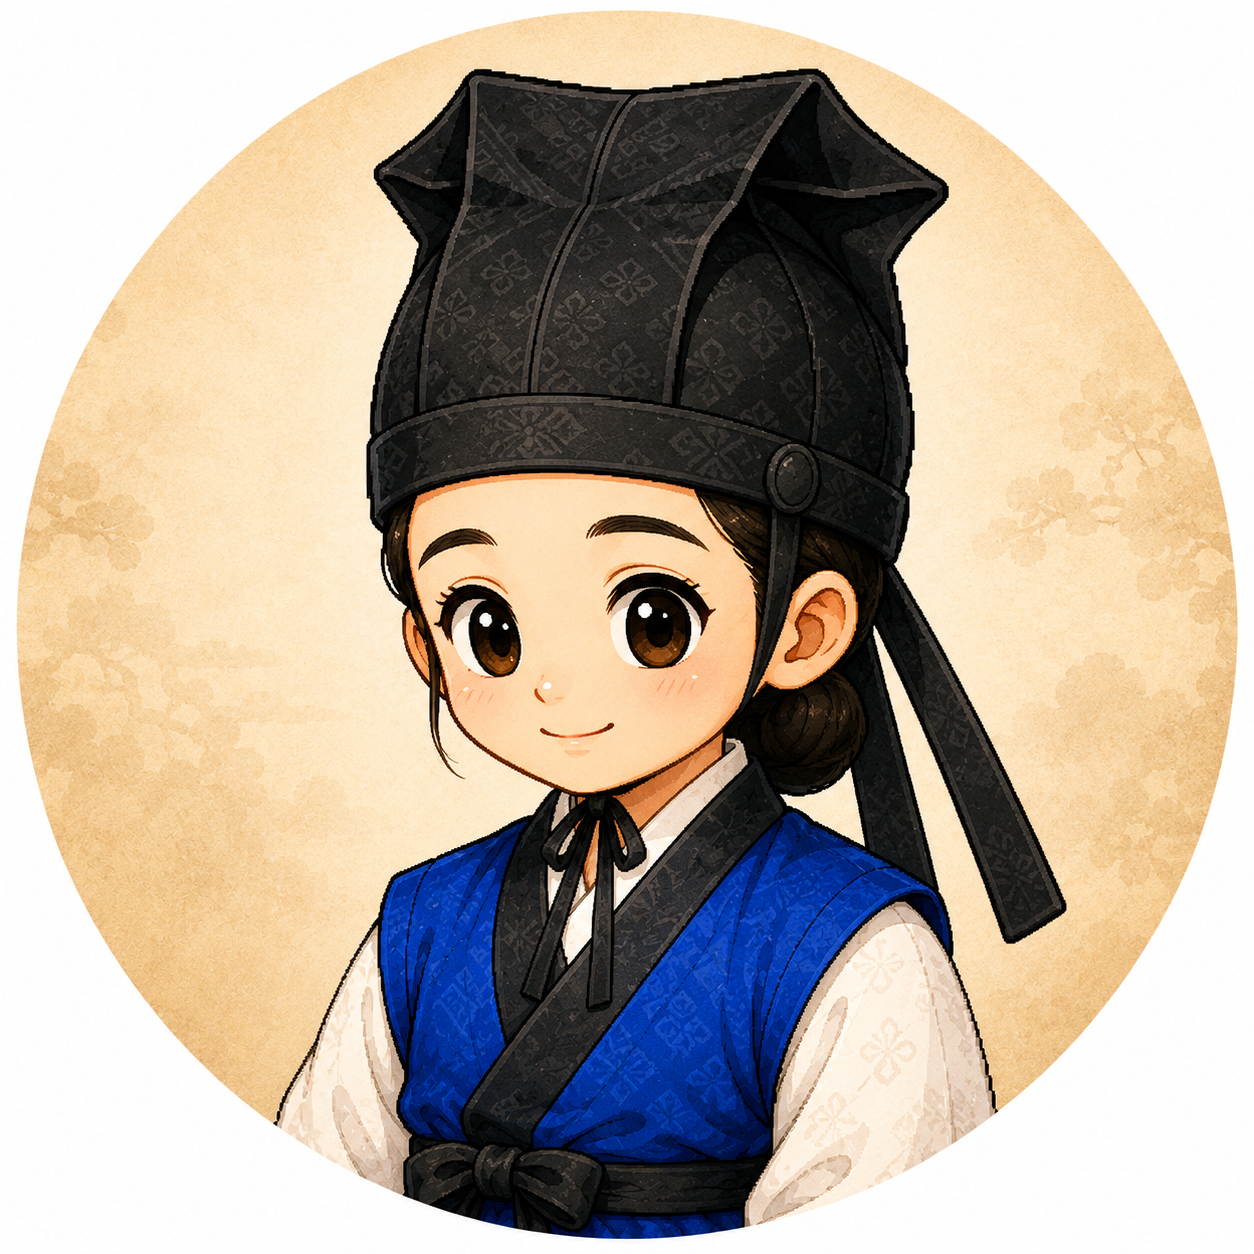
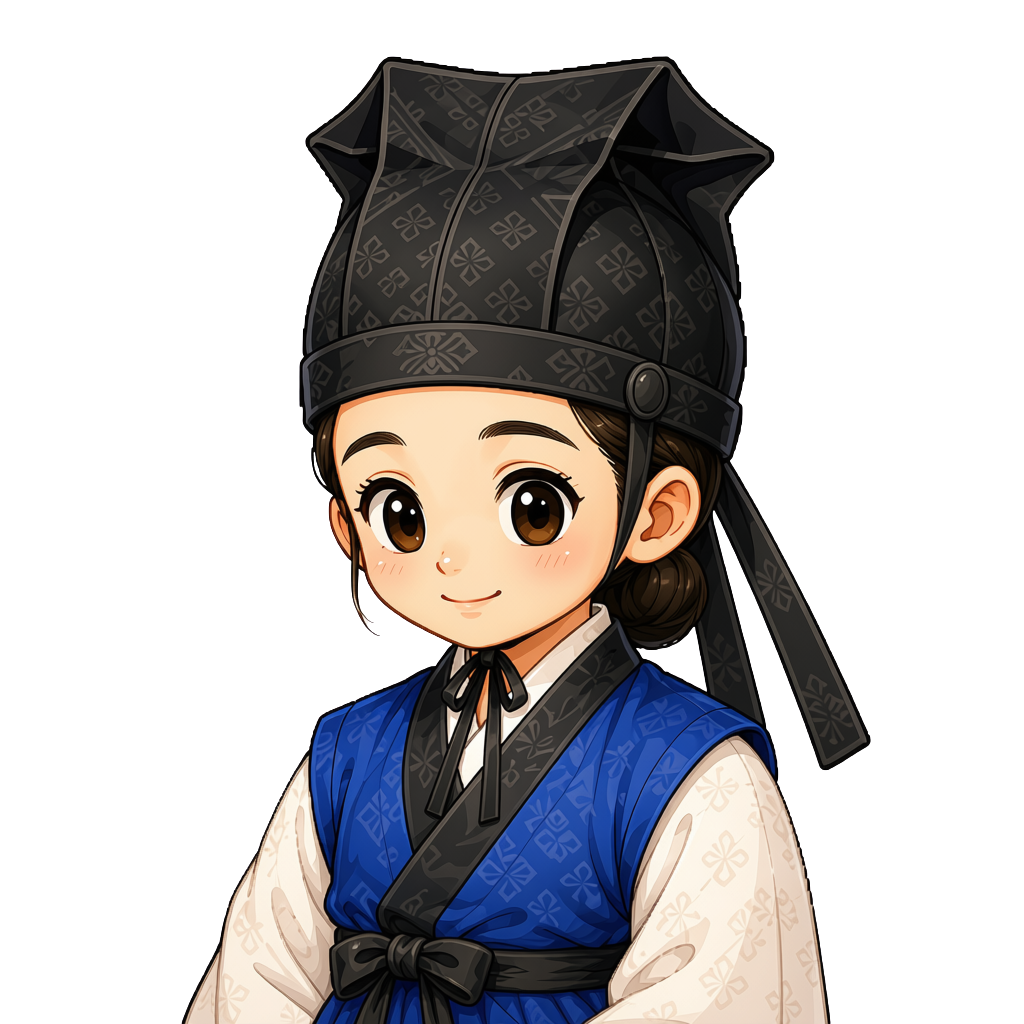
관리자 접근 제한, 게시판 공지사항, 캐릭터 변경창 확대, 프로필 이미지 갱신
- /admin은 isAdmin 계정만 접근 가능하도록 제한, admin 계정 자동 복구 로직 추가
- 상단 네비바에 세줄 메뉴(배경음 조절/로그아웃/회원탈퇴) 추가
- 스터디룸 12번 좌석 위 게시판 클릭 시 공지사항 모달 표시
- 캐릭터 변경창 크기 및 아바타 확대
- 프로필 이미지 8장 최신 원본으로 썸네일 재생성

diff --git a/src/legacy/GongsupScreens.tsx b/src/legacy/GongsupScreens.tsx
@@ -586,25 +586,25 @@ export const RAW_SEATS: Omit<Seat, "status">[] = [
 // 서당 맵 좌석 (2줄 × 10칸, id 101~120 — 공숲 좌석 id와 겹치지 않게 구분)
 export const SEODANG_SEATS: Omit<Seat, "status">[] = [
   { id: 101, x: 88,  y: 327, zone: "서당 앞줄" },
-  { id: 102, x: 181, y: 327, zone: "서당 앞줄" },
-  { id: 103, x: 275, y: 327, zone: "서당 앞줄" },
-  { id: 104, x: 368, y: 327, zone: "서당 앞줄" },
-  { id: 105, x: 461, y: 327, zone: "서당 앞줄" },
-  { id: 106, x: 564, y: 327, zone: "서당 앞줄" },
-  { id: 107, x: 658, y: 327, zone: "서당 앞줄" },
-  { id: 108, x: 751, y: 327, zone: "서당 앞줄" },
-  { id: 109, x: 844, y: 327, zone: "서당 앞줄" },
-  { id: 110, x: 937, y: 327, zone: "서당 앞줄" },
+  { id: 102, x: 179, y: 327, zone: "서당 앞줄" },
+  { id: 103, x: 265, y: 327, zone: "서당 앞줄" },
+  { id: 104, x: 353, y: 327, zone: "서당 앞줄" },
+  { id: 105, x: 451, y: 327, zone: "서당 앞줄" },
+  { id: 106, x: 579, y: 327, zone: "서당 앞줄" },
+  { id: 107, x: 673, y: 327, zone: "서당 앞줄" },
+  { id: 108, x: 766, y: 327, zone: "서당 앞줄" },
+  { id: 109, x: 859, y: 327, zone: "서당 앞줄" },
+  { id: 110, x: 947, y: 327, zone: "서당 앞줄" },
   { id: 111, x: 88,  y: 410, zone: "서당 뒷줄" },
   { id: 112, x: 181, y: 410, zone: "서당 뒷줄" },
-  { id: 113, x: 275, y: 410, zone: "서당 뒷줄" },
-  { id: 114, x: 368, y: 410, zone: "서당 뒷줄" },
-  { id: 115, x: 461, y: 410, zone: "서당 뒷줄" },
-  { id: 116, x: 564, y: 410, zone: "서당 뒷줄" },
-  { id: 117, x: 658, y: 410, zone: "서당 뒷줄" },
-  { id: 118, x: 751, y: 410, zone: "서당 뒷줄" },
-  { id: 119, x: 844, y: 410, zone: "서당 뒷줄" },
-  { id: 120, x: 937, y: 410, zone: "서당 뒷줄" },
+  { id: 113, x: 265, y: 410, zone: "서당 뒷줄" },
+  { id: 114, x: 353, y: 410, zone: "서당 뒷줄" },
+  { id: 115, x: 448, y: 410, zone: "서당 뒷줄" },
+  { id: 116, x: 579, y: 410, zone: "서당 뒷줄" },
+  { id: 117, x: 673, y: 410, zone: "서당 뒷줄" },
+  { id: 118, x: 763, y: 410, zone: "서당 뒷줄" },
+  { id: 119, x: 854, y: 410, zone: "서당 뒷줄" },
+  { id: 120, x: 942, y: 410, zone: "서당 뒷줄" },
 ];
 
 // pre-occupied seats for visual context
@@ -689,6 +689,7 @@ export function StudyRoomPage({ todos, remove, add, char, setChar }: {
   const [seatedAt, setSeatedAt] = useState<number | null>(null);
   const [timeOfDay, setTimeOfDay] = useState<TimeOfDay>(getTimeOfDay);
   const [showCharSelect, setShowCharSelect] = useState(false);
+  const [showNotice, setShowNotice] = useState(false);
   const [todoOpen, setTodoOpen] = useState(true);
 
   const currentMap = MAPS[mapId];
@@ -1041,6 +1042,22 @@ export function StudyRoomPage({ todos, remove, add, char, setChar }: {
             <SeatMarker key={seat.id} seat={seat} isSelected={selectedId === seat.id} onClick={handleSeatClick} />
           ))}
 
+          {/* 게시판 — 12번 좌석 위 안내판, 클릭하면 공지사항 표시 (공숲 맵에만 존재) */}
+          {mapId === "forest" && (
+            <div
+              onClick={() => setShowNotice(true)}
+              title="클릭하여 공지사항 보기"
+              style={{ position: "absolute", left: `${(680 / MAP_W) * 100}%`, top: `${(388 / MAP_H) * 100}%`, transform: "translate(-50%, -50%)", zIndex: 22, width: 46, height: 34, cursor: "pointer" }}
+            >
+              <div style={{ position: "absolute", top: -22, left: "50%", transform: "translateX(-50%)", background: "#c04040", color: "#fff", fontSize: 9, fontWeight: 700, padding: "2px 7px", whiteSpace: "nowrap", border: "1px solid #7a1010", boxShadow: "1px 1px 0 #4a0808", animation: "noticeBlink 1.4s ease-in-out infinite" }}>
+                👆 클릭
+              </div>
+            </div>
+          )}
+
+          {/* 공지사항 모달 */}
+          {showNotice && <NoticeBoardModal onClose={() => setShowNotice(false)} />}
+
           {/* Seated character */}
           {seatedSeat && (
             <>
@@ -1256,7 +1273,7 @@ function CharSelectModal({ current, onSelect, onClose }: {
       <div onClick={onClose} style={{ position: "absolute", inset: 0, zIndex: 40, background: "rgba(0,0,0,0.62)" }} />
       <div style={{ position: "absolute", top: "50%", left: "50%", transform: "translate(-50%,-50%)", zIndex: 50,
         background: "linear-gradient(160deg,#fdf4db,#eedda0)", border: "3px solid #9a6a30",
-        boxShadow: "4px 5px 0 #5a3a08, 0 16px 48px rgba(0,0,0,0.75)", padding: "20px 22px", width: 440 }}>
+        boxShadow: "4px 5px 0 #5a3a08, 0 16px 48px rgba(0,0,0,0.75)", padding: "24px 26px", width: 620 }}>
 
         {[0,1].map(i=>[
           <div key={`tl${i}`} style={{ position:"absolute", top:5, left:5, width:6, height:6, background:"#3a1e06", borderRadius:1 }}/>,
@@ -1267,19 +1284,19 @@ function CharSelectModal({ current, onSelect, onClose }: {
           🎭 캐릭터 변경
         </div>
 
-        <div style={{ display: "grid", gridTemplateColumns: "repeat(4, 1fr)", gap: 10, marginBottom: 16 }}>
+        <div style={{ display: "grid", gridTemplateColumns: "repeat(4, 1fr)", gap: 14, marginBottom: 18 }}>
           {CHARACTERS.map(ch => {
             const active = ch.id === selected;
             return (
               <button key={ch.id} onClick={() => setSelected(ch.id)}
-                style={{ display: "flex", flexDirection: "column", alignItems: "center", justifyContent: "center", gap: 6,
-                  padding: "10px 6px", cursor: "pointer",
+                style={{ display: "flex", flexDirection: "column", alignItems: "center", justifyContent: "center", gap: 8,
+                  padding: "14px 8px", cursor: "pointer",
                   background: active ? "linear-gradient(135deg,#f5c842,#e8a820)" : "rgba(139,94,60,0.08)",
                   border: active ? "2px solid #b88010" : "2px solid #c4a060",
                   boxShadow: active ? "2px 3px 0 #8a6010" : "1px 2px 0 #9a7030",
                 }}>
-                <ProfileAvatar id={ch.id} size={60} />
-                <span style={{ fontSize: 9, color: active ? "#5a3010" : "#7a5828",
+                <ProfileAvatar id={ch.id} size={92} />
+                <span style={{ fontSize: 11, color: active ? "#5a3010" : "#7a5828",
                   fontWeight: active ? 700 : 500, fontFamily: ff, textAlign: "center", lineHeight: 1.2 }}>
                   {ch.label}
                 </span>
@@ -1310,6 +1327,46 @@ function CharSelectModal({ current, onSelect, onClose }: {
             저장하기
           </button>
         </div>
+      </div>
+    </>
+  );
+}
+
+/* ── 공지사항 게시판 모달 ─────────────────────────────────────── */
+const NOTICES: { title: string; date: string; body: string }[] = [
+  { title: "서당 맵 오픈!", date: "2026-07-07", body: "새로운 학습 공간 '서당' 맵이 열렸어요. 좌측 사이드바의 맵 선택에서 골라보세요." },
+  { title: "배경음악 기능 추가", date: "2026-07-07", body: "상단 네비게이션 바에서 배경음악을 켜고 끌 수 있어요. 집중이 필요할 땐 켜보세요." },
+  { title: "장원급제 이벤트 안내", date: "2026-07-01", body: "이번 달 문제풀이 랭킹 상위 10명에게 특별 캐릭터 의상이 지급됩니다." },
+];
+
+function NoticeBoardModal({ onClose }: { onClose: () => void }) {
+  return (
+    <>
+      <div onClick={onClose} style={{ position: "absolute", inset: 0, zIndex: 40, background: "rgba(0,0,0,0.62)" }} />
+      <div style={{ position: "absolute", top: "50%", left: "50%", transform: "translate(-50%,-50%)", zIndex: 50,
+        background: "linear-gradient(160deg,#fdf4db,#eedda0)", border: "3px solid #9a6a30",
+        boxShadow: "4px 5px 0 #5a3a08, 0 16px 48px rgba(0,0,0,0.75)", padding: "22px 24px", width: 400, maxHeight: "72vh", overflowY: "auto" }}>
+
+        <div style={{ fontFamily: fs, fontWeight: 700, fontSize: 15, color: "#2a1808", marginBottom: 16, textAlign: "center" }}>
+          📌 공지사항
+        </div>
+
+        <div style={{ display: "flex", flexDirection: "column", gap: 12 }}>
+          {NOTICES.map((n, i) => (
+            <div key={i} style={{ padding: "10px 12px", background: "rgba(139,94,60,0.08)", border: "1px solid #c4a060" }}>
+              <div style={{ display: "flex", justifyContent: "space-between", alignItems: "baseline", marginBottom: 4 }}>
+                <span style={{ fontFamily: ff, fontWeight: 700, fontSize: 13, color: "#2a1808" }}>{n.title}</span>
+                <span style={{ fontFamily: ff, fontSize: 10, color: "#9a7040" }}>{n.date}</span>
+              </div>
+              <div style={{ fontFamily: ff, fontSize: 12, color: "#5a3010", lineHeight: 1.5 }}>{n.body}</div>
+            </div>
+          ))}
+        </div>
+
+        <button onClick={onClose} style={{ marginTop: 16, width: "100%", padding: "8px", fontSize: 11, fontWeight: 700,
+          background: "rgba(139,94,60,0.1)", border: "1px solid #c4a060", color: "#5a3010", cursor: "pointer", fontFamily: ff }}>
+          닫기
+        </button>
       </div>
     </>
   );

diff --git a/src/components/Nav.tsx b/src/components/Nav.tsx
@@ -1,5 +1,6 @@
-import { NavLink } from "react-router-dom";
-import { Bell, Volume2, VolumeX } from "lucide-react";
+import { useState } from "react";
+import { NavLink, useNavigate } from "react-router-dom";
+import { Bell, Volume2, VolumeX, Menu } from "lucide-react";
 import { C, ff, fs } from "@/styles/tokens";
 import { mockAuthApi } from "@/api/mockAuthApi";
 import ProfileAvatar from "@/components/ProfileAvatar";
@@ -15,10 +16,27 @@ const NAV_ITEMS = [
 ];
 
 export default function Nav() {
+  const navigate = useNavigate();
   const account = mockAuthApi.getCurrentAccount();
   const nickname = account?.nickname ?? "학습자";
   const characterId = account?.characterId ?? DEFAULT_CHARACTER_ID;
   const bgm = useBgm();
+  const [showMenu, setShowMenu] = useState(false);
+  const navItems = NAV_ITEMS.filter((item) => item.to !== "/admin" || account?.isAdmin);
+
+  function handleLogout() {
+    mockAuthApi.logout();
+    setShowMenu(false);
+    navigate("/login", { replace: true });
+  }
+
+  function handleWithdraw() {
+    if (!confirm("정말 회원을 탈퇴하시겠어요? 저장된 계정 정보가 모두 삭제됩니다.")) return;
+    mockAuthApi.withdraw();
+    setShowMenu(false);
+    navigate("/login", { replace: true });
+  }
+
   return (
     <nav style={{ height: 52, flexShrink: 0, display: "flex", alignItems: "center", padding: "0 16px", gap: 4, zIndex: 50, background: C.navBg, borderBottom: `3px solid ${C.navBr}`, boxShadow: `0 3px 0 ${C.sidebarBr}, 0 4px 20px rgba(0,0,0,0.65)` }}>
       <div style={{ display: "flex", alignItems: "center", gap: 8, marginRight: 20 }}>
@@ -26,7 +44,7 @@ export default function Nav() {
         <span style={{ fontFamily: fs, fontWeight: 700, fontSize: 18, color: "#f5e6c8" }}>공숲</span>
         <span style={{ fontSize: 10, padding: "2px 6px", background: "#7a4f2e", color: C.gold, border: `1px solid ${C.inputBr}`, fontWeight: 700 }}>한국사</span>
       </div>
-      {NAV_ITEMS.map(item => (
+      {navItems.map(item => (
         <NavLink key={item.to} to={item.to} style={({ isActive }) => ({
           padding: "5px 12px", fontSize: 13, textDecoration: "none", fontFamily: ff,
           color: isActive ? C.active : "#887060",
@@ -51,12 +69,68 @@ export default function Nav() {
           )}
         </button>
         <Bell size={17} style={{ color: "#c8a060", cursor: "pointer" }} />
-        <div style={{ display: "flex", alignItems: "center", gap: 8, padding: "4px 10px", background: "rgba(139,94,60,0.22)", border: "1px solid #8b5e3c" }}>
+        <div style={{ position: "relative", display: "flex", alignItems: "center", gap: 8, padding: "4px 10px", background: "rgba(139,94,60,0.22)", border: "1px solid #8b5e3c" }}>
           <div style={{ width: 20, height: 20, flexShrink: 0, overflow: "hidden", display: "flex", alignItems: "center", justifyContent: "center" }}>
             <ProfileAvatar id={characterId} size={20} />
           </div>
           <span style={{ fontSize: 13, color: "#f5e6c8", fontFamily: ff }}>{nickname}</span>
-          <span style={{ fontSize: 10, padding: "2px 6px", background: "#2c4a7c", color: "#a0c0f0", border: "1px solid #1e3060", fontWeight: 700 }}>Lv.7</span>
+          <button
+            onClick={() => setShowMenu((v) => !v)}
+            title="메뉴"
+            style={{ background: "none", border: "none", padding: 0, display: "flex", cursor: "pointer" }}
+          >
+            <Menu size={15} style={{ color: "#c8a060" }} />
+          </button>
+
+          {showMenu && (
+            <>
+              <div onClick={() => setShowMenu(false)} style={{ position: "fixed", inset: 0, zIndex: 60 }} />
+              <div style={{
+                position: "absolute", top: "calc(100% + 8px)", right: 0, zIndex: 61, width: 220,
+                background: "linear-gradient(160deg,#fdf4db,#eedda0)", border: "2px solid #9a6a30",
+                boxShadow: "3px 4px 0 #5a3a08, 0 8px 24px rgba(0,0,0,0.5)", padding: 14,
+                display: "flex", flexDirection: "column", gap: 12,
+              }}>
+                <div style={{ display: "flex", flexDirection: "column", gap: 6 }}>
+                  <span style={{ fontSize: 11, fontWeight: 700, color: "#5a3010" }}>배경음 조절</span>
+                  <div style={{ display: "flex", alignItems: "center", gap: 8 }}>
+                    <button
+                      onClick={bgm.toggle}
+                      disabled={!bgm.hasTracks}
+                      style={{ background: "none", border: "none", padding: 0, display: "flex", cursor: bgm.hasTracks ? "pointer" : "default", opacity: bgm.hasTracks ? 1 : 0.4 }}
+                    >
+                      {bgm.enabled ? <Volume2 size={16} style={{ color: "#5a3010" }} /> : <VolumeX size={16} style={{ color: "#5a3010" }} />}
+                    </button>
+                    <input
+                      type="range"
+                      min={0}
+                      max={1}
+                      step={0.01}
+                      value={bgm.volume}
+                      onChange={(e) => bgm.setVolume(Number(e.target.value))}
+                      disabled={!bgm.hasTracks}
+                      style={{ flex: 1 }}
+                    />
+                  </div>
+                </div>
+
+                <div style={{ height: 1, background: "#c4a060" }} />
+
+                <button
+                  onClick={handleLogout}
+                  style={{ textAlign: "left", fontSize: 12, fontWeight: 700, padding: "6px 8px", background: "rgba(139,94,60,0.12)", border: "1px solid #c4a060", color: "#5a3010", cursor: "pointer", fontFamily: ff }}
+                >
+                  🚪 로그아웃
+                </button>
+                <button
+                  onClick={handleWithdraw}
+                  style={{ textAlign: "left", fontSize: 12, fontWeight: 700, padding: "6px 8px", background: "rgba(192,64,64,0.1)", border: "1px solid #9a2020", color: "#7a1010", cursor: "pointer", fontFamily: ff }}
+                >
+                  ⚠ 회원탈퇴
+                </button>
+              </div>
+            </>
+          )}
         </div>
       </div>
     </nav>

diff --git a/src/api/mockAuthApi.ts b/src/api/mockAuthApi.ts
@@ -17,14 +17,24 @@ export interface MockAccount {
   birthDate: string; // YYYY-MM-DD
   nickname?: string;
   characterId?: number;
+  /** 관리자 페이지 접근 권한 — 회원가입으로는 부여되지 않음 */
+  isAdmin?: boolean;
 }
 
 function loadAccounts(): MockAccount[] {
   const raw = localStorage.getItem(ACCOUNTS_KEY);
-  if (raw) return JSON.parse(raw) as MockAccount[];
-  const seed: MockAccount[] = [{ email: "admin", password: "1234", name: "관리자", birthDate: "2000-01-01", nickname: "관리자", characterId: DEFAULT_CHARACTER_ID }];
-  localStorage.setItem(ACCOUNTS_KEY, JSON.stringify(seed));
-  return seed;
+  const accounts: MockAccount[] = raw ? (JSON.parse(raw) as MockAccount[]) : [];
+
+  // admin 계정은 항상 존재하고 관리자 권한을 갖도록 보정 (삭제됐거나, isAdmin 필드 도입 전에 만들어졌거나 둘 다 처리)
+  const admin = accounts.find((a) => a.email === "admin");
+  if (!admin) {
+    accounts.push({ email: "admin", password: "1234", name: "관리자", birthDate: "2000-01-01", nickname: "관리자", characterId: DEFAULT_CHARACTER_ID, isAdmin: true });
+    saveAccounts(accounts);
+  } else if (!admin.isAdmin) {
+    admin.isAdmin = true;
+    saveAccounts(accounts);
+  }
+  return accounts;
 }
 
 function saveAccounts(accounts: MockAccount[]) {
@@ -79,10 +89,31 @@ export const mockAuthApi = {
     return localStorage.getItem(CURRENT_EMAIL_KEY);
   },
 
+  /** 로그아웃 — 토큰과 현재 계정 정보만 지움 (계정 자체는 유지) */
+  logout(): void {
+    tokenStore.clear();
+    localStorage.removeItem(CURRENT_EMAIL_KEY);
+  },
+
+  /** 회원 탈퇴 — 현재 로그인된 계정을 삭제하고 로그아웃 처리 */
+  withdraw(): void {
+    const email = mockAuthApi.getCurrentEmail();
+    if (email) {
+      const accounts = loadAccounts().filter((a) => a.email !== email);
+      saveAccounts(accounts);
+    }
+    mockAuthApi.logout();
+  },
+
   getCurrentAccount(): MockAccount | null {
     const email = mockAuthApi.getCurrentEmail();
     if (!email) return null;
     return loadAccounts().find((a) => a.email === email) ?? null;
+  },
+
+  /** 현재 로그인한 계정이 관리자 페이지에 접근할 수 있는지 */
+  isCurrentUserAdmin(): boolean {
+    return mockAuthApi.getCurrentAccount()?.isAdmin === true;
   },
 
   /** 관리자 회원 관리 화면용 — 비밀번호는 빼고 반환 */

diff --git a/src/layouts/AdminLayout.tsx b/src/layouts/AdminLayout.tsx
@@ -1,5 +1,6 @@
-import { NavLink, Outlet } from "react-router-dom";
+import { Navigate, NavLink, Outlet } from "react-router-dom";
 import { C, ff, fs } from "@/styles/tokens";
+import { mockAuthApi } from "@/api/mockAuthApi";
 
 const ADMIN_MENU = [
   { to: "members", label: "회원 관리" },
@@ -10,6 +11,10 @@ const ADMIN_MENU = [
 ];
 
 export default function AdminLayout() {
+  if (!mockAuthApi.isCurrentUserAdmin()) {
+    return <Navigate to="/study-room" replace />;
+  }
+
   return (
     <div style={{ flex: 1, minHeight: 0, display: "flex", flexDirection: "column", background: "linear-gradient(160deg,#1a2a14,#0e1a0a)" }}>
       <div style={{ padding: "20px 28px 0" }}>

diff --git a/src/styles/index.css b/src/styles/index.css
@@ -3,3 +3,8 @@
 
 html, body, #root { margin: 0; padding: 0; height: 100%; }
 * { box-sizing: border-box; }
+
+@keyframes noticeBlink {
+  0%, 100% { transform: translateX(-50%) translateY(0); opacity: 1; }
+  50% { transform: translateX(-50%) translateY(-4px); opacity: 0.75; }
+}
